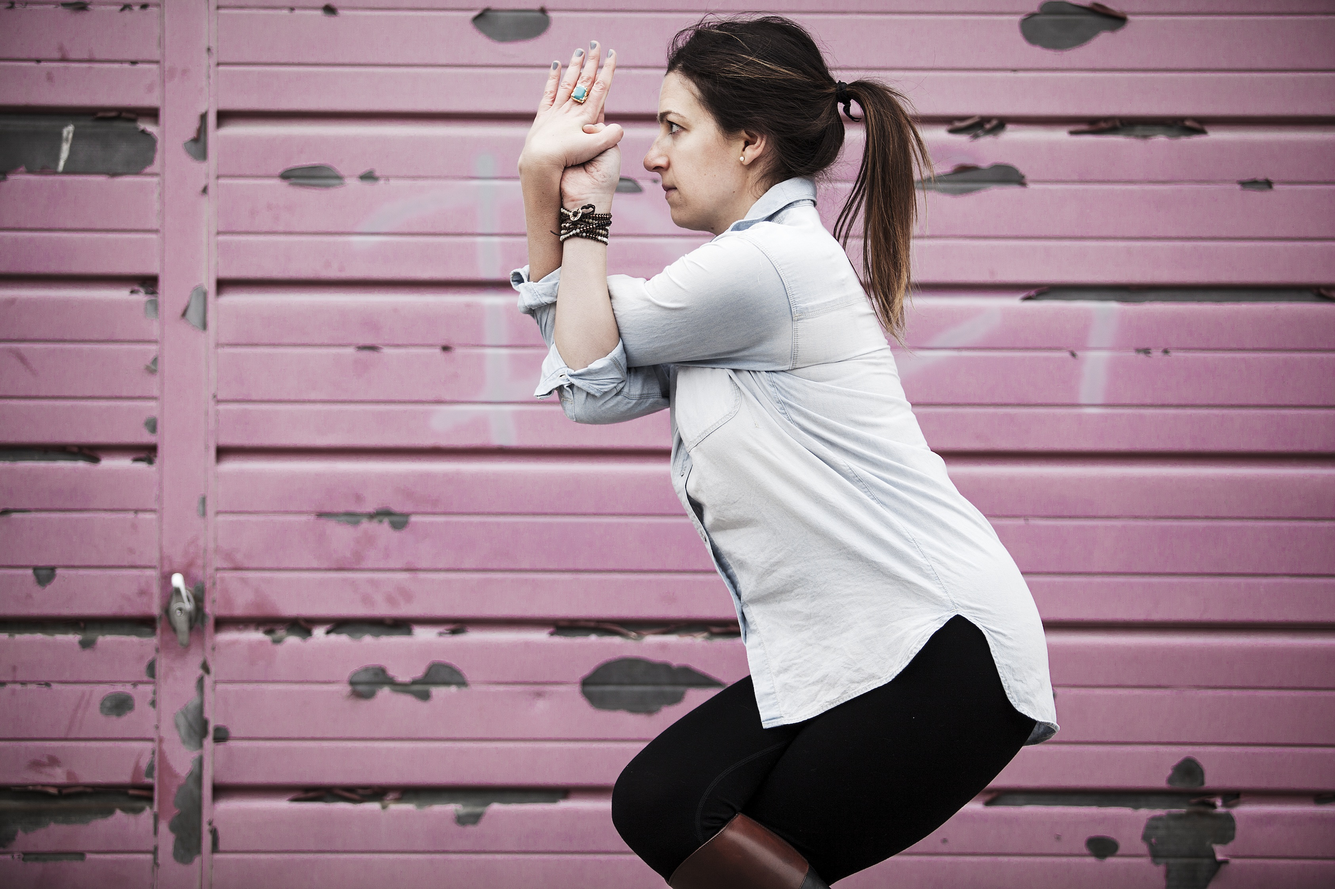
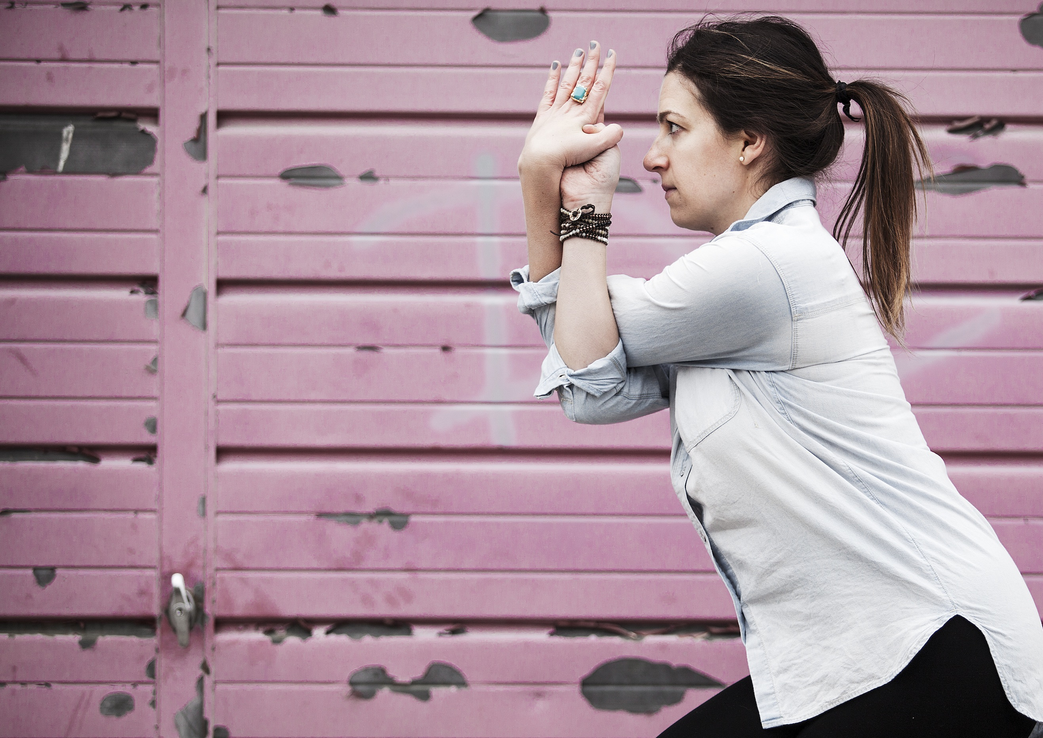
first draft done

diff --git a/public/stylesheets/style.css b/public/stylesheets/style.css
@@ -1,5 +1,5 @@
 body {
-  font-family: 'Enriqueta', serif;
+  font-family: 'Lato', sans-serif;
   font-size: 11px;
   color: #000;
 }
@@ -50,15 +50,10 @@ body {
   border: 1px #000;
   display: block;
   z-index: 1000000;
-  background: #fff;
-  opacity: 0.8;
-  border-radius: 10px;
-  box-shadow: 2px 2px 2px #888;
   padding: 4px;
 }
 #homemodal {
-  width: 371px;
-  height: 101px;
+  width: 823px;
   margin-left: auto;
   margin-right: auto;
   margin-bottom: 100px;
@@ -67,6 +62,8 @@ body {
   left: 0;
   right: 0;
   display: none;
+  color: #fff;
+  font-size: 19px;
 }
 #homemodal p {
   margin-top: 5px;
@@ -76,6 +73,64 @@ body {
 }
 #homemodal p.end {
   margin-left: 220px;
+}
+#aboutmodal {
+  width: 410px;
+  height: 452px;
+  background-color: #fff;
+  margin-left: 28px;
+  margin-top: 73px;
+  border-radius: 5px;
+  opacity: 0.7;
+  font-size: 15px;
+  padding: 15px;
+}
+#contactmodal {
+  width: 400px;
+  height: 200px;
+  border-radius: 5px;
+  opacity: 0.8;
+  font-size: 15px;
+  padding: 15px;
+  position: absolute;
+  right: 0;
+  margin-right: -15px;
+  margin-top: 81px;
+}
+h3 {
+  color: #fff;
+}
+#schedulemodal {
+  width: 400px;
+  height: 100px;
+  border-radius: 5px;
+  opacity: 0.8;
+  font-size: 15px;
+  padding: 15px;
+  position: absolute;
+  right: 0;
+  margin-right: -15px;
+  margin-top: 400px;
+}
+#heartmodal {
+  width: 400px;
+  height: 300px;
+  border-radius: 5px;
+  opacity: 0.8;
+  font-size: 15px;
+  padding: 15px;
+  position: absolute;
+  right: 0;
+  margin-right: -161px;
+  margin-top: 230px;
+  color: #fff;
+}
+#heartmodal a {
+  text-decoration: none;
+  color: #fff;
+}
+li {
+  list-style: none;
 }
 #footer {
   position: fixed;

diff --git a/public/app/views/index.js b/public/app/views/index.js
@@ -52,9 +52,9 @@ function(app){
 			
 			$('#home').backstretch('/images/IMG_4222.jpg');
 			$('#about').backstretch('/images/IMG_4383.jpg');
-			$('#contact').backstretch('/images/IMG_4239.jpg');
-			$('#schedule').backstretch('/images/IMG_4239_1.jpg');
-			$('#heart').backstretch('/images/IMG_4254.jpg');
+			$('#contact').backstretch('/images/IMG_4239_1.jpg');
+			$('#schedule').backstretch('/images/IMG_4310wide.jpg');
+			$('#heart').backstretch('/images/IMG_4251.jpg');
 			
 			
 			//return this.$el.html(this.template());
